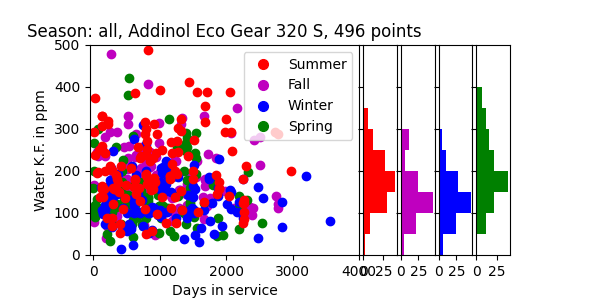
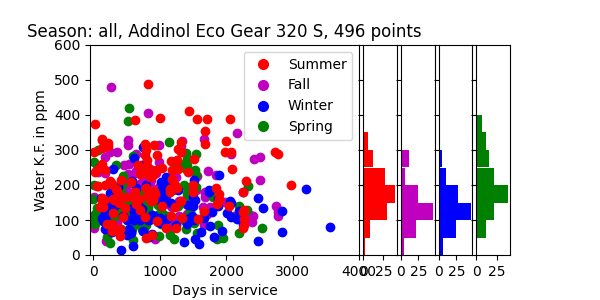
Sep 29, 2022, 5:29 PM

diff --git a/project/dataset.py b/project/dataset.py
@@ -189,7 +189,7 @@ class Dataset:
                     ylabelstr = "Water K.F. in ppm"
                     save_name = f"H2O_vs_days_all_{noil}.png"
                     ax.set_xlim(-50, 4000)
-                    ax.set_ylim(0, 500)
+                    ax.set_ylim(0, 600)
                     if len(d1["x_values"]) > 150:
                         binwidth = 25
                     else:
